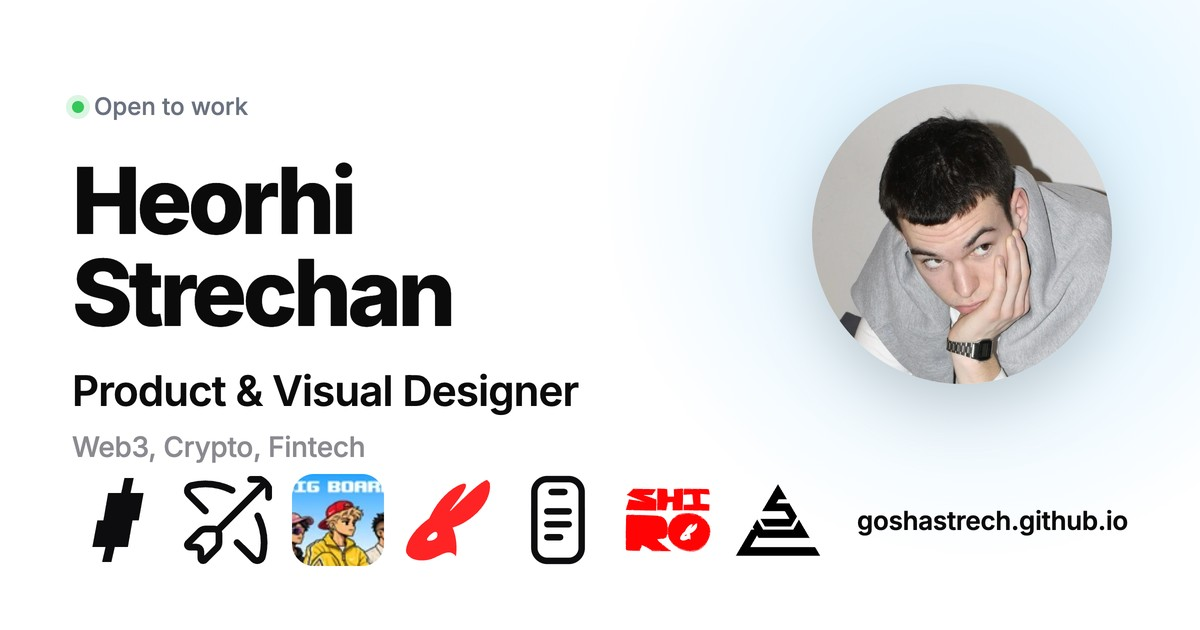
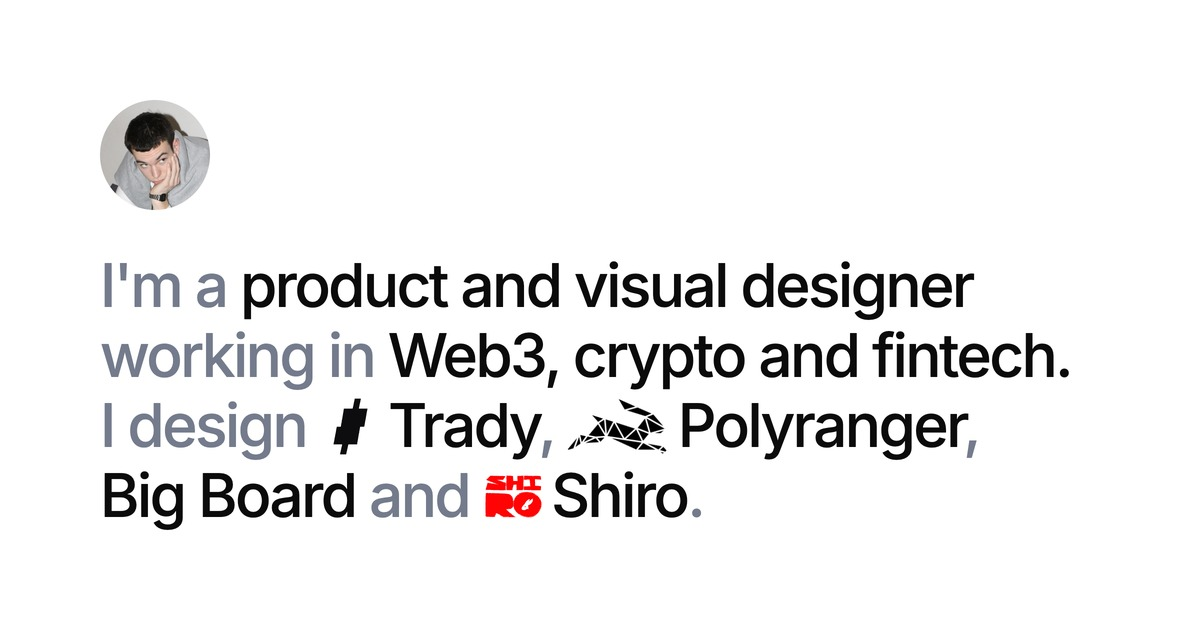
Превью ссылки, Product & Visual Designer, Polyranger лого

diff --git a/index.html b/index.html
@@ -3,21 +3,21 @@
 <head>
   <meta charset="UTF-8" />
   <meta name="viewport" content="width=device-width, initial-scale=1.0" />
-  <title>Heorhi Strechan — UX/UI & Graphic Designer</title>
-  <meta name="description" content="UX/UI & Graphic Designer creating modern digital products for Web3 projects and startups." />
+  <title>Heorhi Strechan — Product &amp; Visual Designer</title>
+  <meta name="description" content="Product &amp; Visual Designer creating modern digital products for Web3, crypto and fintech." />
 
   <!-- Шрифт Inter от Google -->
   <meta property="og:type" content="website" />
   <meta property="og:site_name" content="Heorhi Strechan" />
-  <meta property="og:title" content="Heorhi Strechan — UX/UI &amp; Graphic Designer" />
-  <meta property="og:description" content="UX/UI &amp; Graphic Designer creating modern digital products for Web3 projects and startups." />
+  <meta property="og:title" content="Heorhi Strechan — Product &amp; Visual Designer" />
+  <meta property="og:description" content="Product &amp; Visual Designer creating modern digital products for Web3, crypto and fintech." />
   <meta property="og:url" content="https://goshastrech.github.io/" />
   <meta property="og:image" content="https://goshastrech.github.io/img/og-image.jpg" />
   <meta property="og:image:width" content="1200" />
   <meta property="og:image:height" content="630" />
   <meta name="twitter:card" content="summary_large_image" />
-  <meta name="twitter:title" content="Heorhi Strechan — UX/UI &amp; Graphic Designer" />
-  <meta name="twitter:description" content="UX/UI &amp; Graphic Designer creating modern digital products for Web3 projects and startups." />
+  <meta name="twitter:title" content="Heorhi Strechan — Product &amp; Visual Designer" />
+  <meta name="twitter:description" content="Product &amp; Visual Designer creating modern digital products for Web3, crypto and fintech." />
   <meta name="twitter:image" content="https://goshastrech.github.io/img/og-image.jpg" />
   <link rel="icon" type="image/png" sizes="32x32" href="img/favicon-32.png" />
   <link rel="icon" type="image/png" sizes="192x192" href="img/favicon-192.png" />
